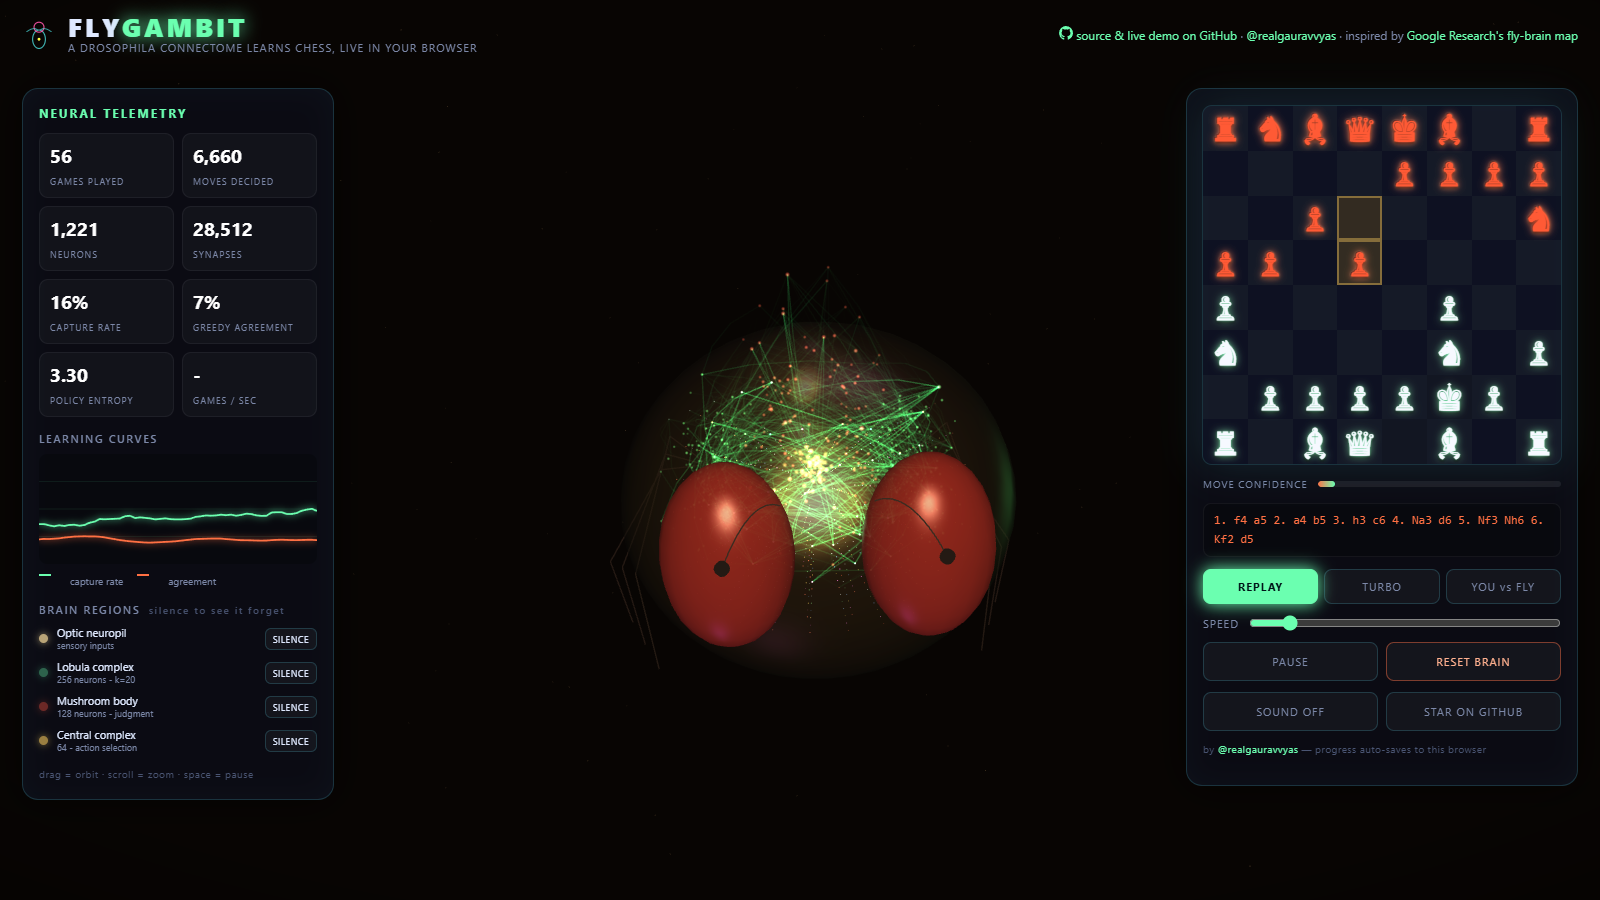
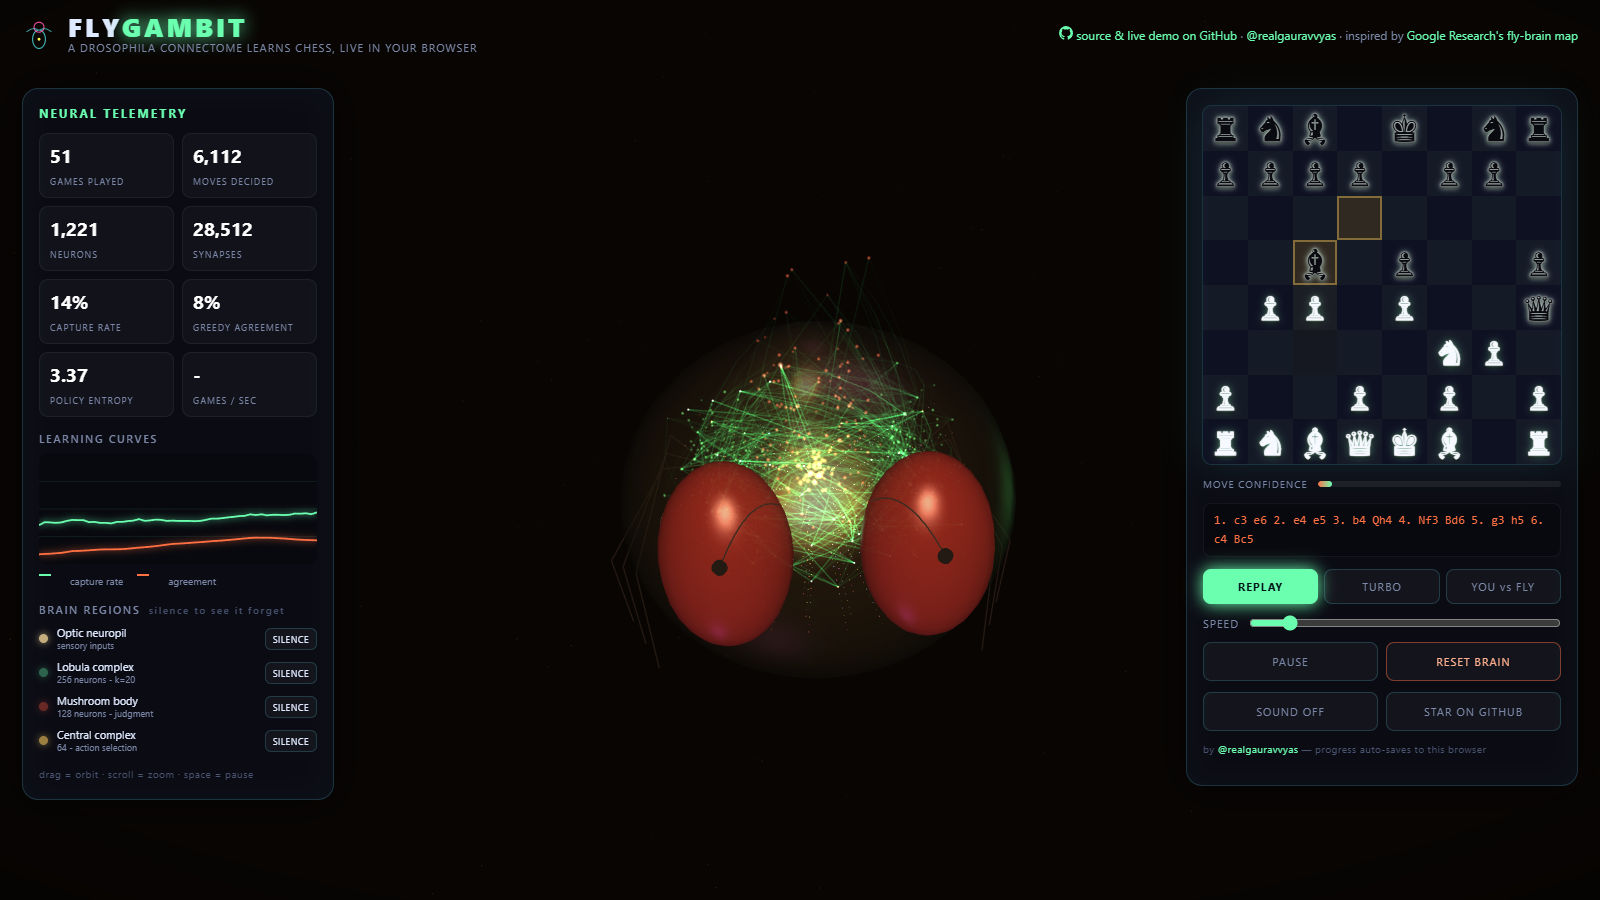
Classic black & white chess pieces (black silhouettes with light rim for dark-square contrast)

diff --git a/css/style.css b/css/style.css
@@ -69,10 +69,10 @@ h3 em{font-style:normal;color:#4a5573;font-size:10px;margin-left:4px;text-transf
 .sq{display:flex;align-items:center;justify-content:center;font-size:min(34px,8.4vw);
   line-height:1;user-select:none;position:relative;transition:background .18s}
 .sq.light{background:rgba(120,160,220,.10)} .sq.dark{background:rgba(20,30,60,.35)}
-.sq.w .p{color:#f6f9ff;text-shadow:0 0 9px rgba(150,255,200,.9),0 0 2px rgba(150,255,200,1),0 2px 3px #000;
+.sq.w .p{color:#f6f9ff;text-shadow:0 0 9px rgba(150,255,200,.55),0 0 2px rgba(255,255,255,.9),0 2px 3px rgba(0,0,0,.9);
   filter:drop-shadow(0 0 1px rgba(0,0,0,.8))}
-.sq.b .p{color:#ff5a35;text-shadow:0 0 9px rgba(255,90,53,.85),0 0 2px rgba(255,90,53,1),0 2px 3px #000,
-  -1px -1px 0 rgba(20,0,12,.65);filter:drop-shadow(0 0 1px rgba(255,200,150,.5))}
+.sq.b .p{color:#090b10;text-shadow:0 0 1.5px rgba(255,255,255,.95),0 0 7px rgba(180,235,205,.45),0 2px 3px rgba(0,0,0,.9);
+  filter:drop-shadow(0 0 1.5px rgba(240,255,245,.7))}
 .sq.last{background:rgba(255,207,95,.18)!important;box-shadow:inset 0 0 0 2px rgba(255,207,95,.4)}
 .sq.sel{box-shadow:inset 0 0 0 2px var(--cyan)}
 .sq.target::after{content:"";position:absolute;width:26%;height:26%;border-radius:50%;
